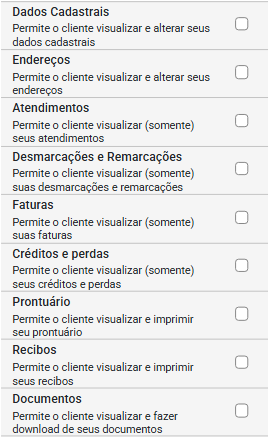
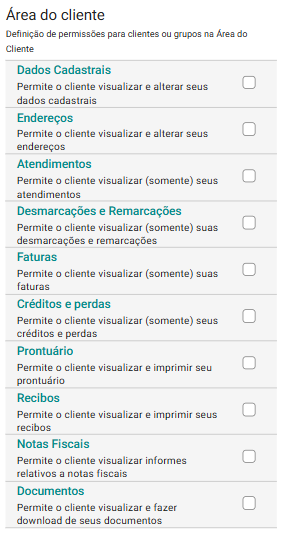
nilson

diff --git a/docs/07_funcionalidades/03-area-cliente/00-visao-area-cliente.md b/docs/07_funcionalidades/03-area-cliente/00-visao-area-cliente.md
@@ -24,6 +24,8 @@ Na Área do Cliente, o cliente pode ter acesso a:
 
 - **Recibos:** Download de recibos disponibilizados pelo profissional.
 
+- **Notas Fiscai:** Acesso a registros feitos relativos a notas fiscais.
+
 - **Documentos:** Download de arquivos disponibilizados pelo profissional, com fácil acesso a qualquer momento.
 
 O profissional pode configurar de forma flexível quais informações e funcionalidades estarão disponíveis para cada cliente em sua Área do Cliente. Essa personalização é feita diretamente no cadastro do cliente dentro do sistema, permitindo ao especialista definir níveis de acesso conforme a necessidade do atendimento, o tipo de serviço prestado ou o perfil do cliente.

diff --git a/docs/07_funcionalidades/18-notas-fiscais/00-visao.md b/docs/07_funcionalidades/18-notas-fiscais/00-visao.md
@@ -1,0 +1,5 @@
+---
+sidebar_position: 0
+---
+
+# Sobre Notas Fiscais
